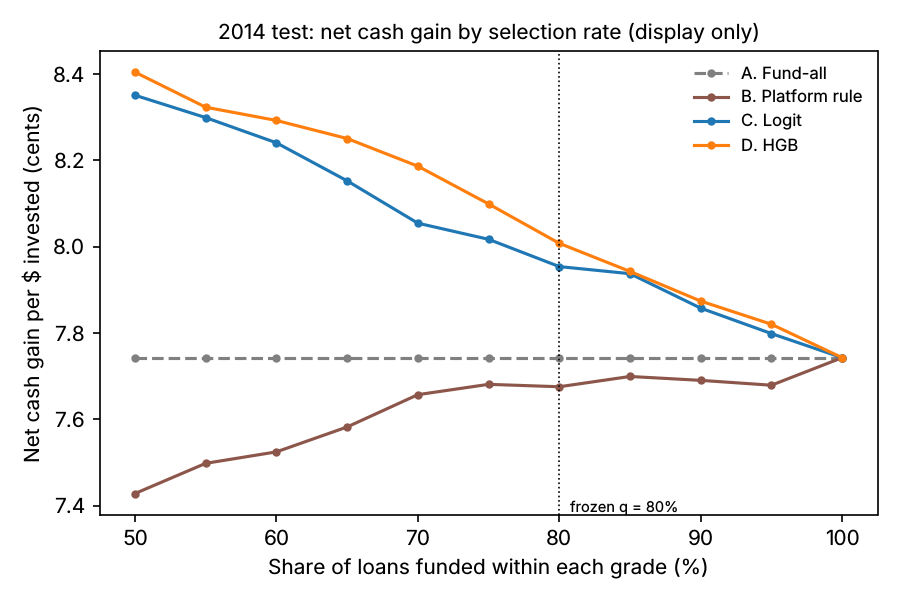
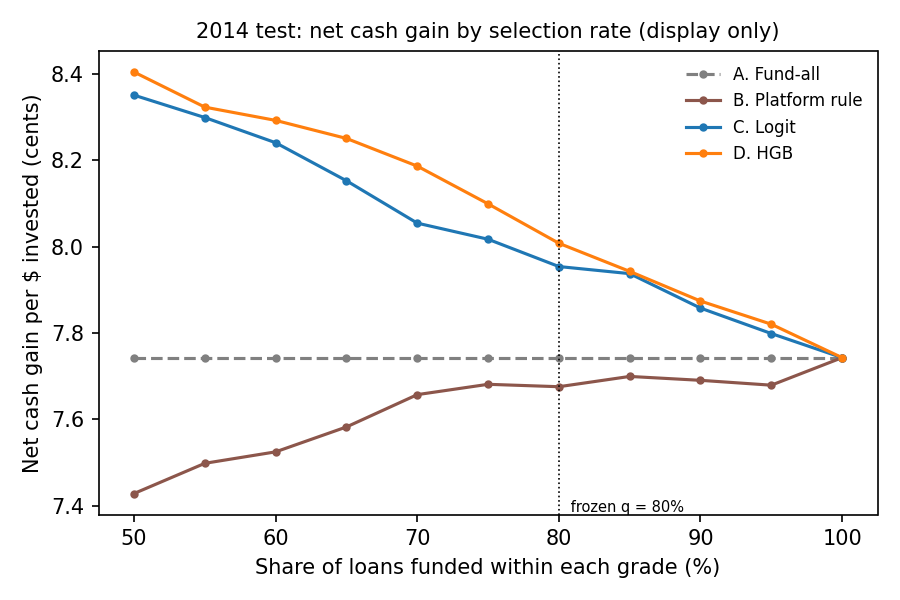
Step 15 fix: draw figures with matplotlib's built-in defaults on every computer
Colab rerun matched every table but not 9 PNGs: this machine's system-wide
matplotlibrc selected the Inter font, Colab uses DejaVu Sans. src/plotstyle.py
resets matplotlib to its built-in defaults; the 9 figures are redrawn (same
data, different font). The one-time step 9/11 reliability PNGs are left as
logged. No number changed.

Claude-Session: https://claude.ai/code/session_01W9jUEdu2WmqkS6TMUmf8Bj

diff --git a/src/reproduce_all.py b/src/reproduce_all.py
@@ -53,7 +53,11 @@ def check_committed_outputs():
     changed = [line[3:] for line in changed if line.strip()]
     changed = [c for c in changed if c not in VOLATILE and not c.startswith("outputs/reproduce")]
     if changed:
+        tables = [c for c in changed if not c.endswith(".png")]
         print("NOT REPRODUCED. These committed result files changed:\n  " + "\n  ".join(changed))
+        if not tables:
+            print("Only figures (.png) differ; every table and number is identical. This points to a "
+                  "drawing difference (fonts or matplotlib build), not a different result.")
         sys.exit(1)
     print("REPRODUCED: every committed table and figure is identical "
           "(only run times/timestamps in run-summary files may differ).")

diff --git a/src/plotstyle.py b/src/plotstyle.py
@@ -1,0 +1,15 @@
+"""
+plotstyle.py: identical figures on every computer (step 15 reproducibility fix).
+
+Matplotlib reads a machine-wide settings file (matplotlibrc) that can change
+the font. The machine that made the original figures had one that selects the
+"Inter" font; Colab has none and uses DejaVu Sans. Same numbers, different
+pixels. Importing this module resets matplotlib to its own built-in defaults,
+so every computer draws with DejaVu Sans, which ships inside matplotlib itself.
+It changes how figures look, never what they show.
+"""
+
+import matplotlib
+
+matplotlib.use("Agg")
+matplotlib.rcdefaults()   # ignore any machine-wide matplotlibrc

diff --git a/src/step6_baselines.py b/src/step6_baselines.py
@@ -36,6 +36,7 @@ from datetime import datetime, timezone
 
 import matplotlib
 matplotlib.use("Agg")
+from . import plotstyle  # noqa: F401  (same fonts on every computer)
 import matplotlib.pyplot as plt
 import numpy as np
 import pandas as pd

diff --git a/src/step7_histgb.py b/src/step7_histgb.py
@@ -31,6 +31,7 @@ from datetime import datetime, timezone
 
 import matplotlib
 matplotlib.use("Agg")
+from . import plotstyle  # noqa: F401  (same fonts on every computer)
 import matplotlib.pyplot as plt
 import numpy as np
 import pandas as pd

diff --git a/src/step9_test_2014.py b/src/step9_test_2014.py
@@ -36,6 +36,7 @@ from datetime import datetime, timezone
 
 import matplotlib
 matplotlib.use("Agg")
+from . import plotstyle  # noqa: F401  (same fonts on every computer)
 import matplotlib.pyplot as plt
 import numpy as np
 import pandas as pd

diff --git a/src/step10_financial_evaluation.py b/src/step10_financial_evaluation.py
@@ -25,6 +25,7 @@ import shutil
 
 import matplotlib
 matplotlib.use("Agg")
+from . import plotstyle  # noqa: F401  (same fonts on every computer)
 import matplotlib.pyplot as plt
 import numpy as np
 import pandas as pd

diff --git a/src/step12_interpretability.py b/src/step12_interpretability.py
@@ -27,6 +27,7 @@ import json
 
 import matplotlib
 matplotlib.use("Agg")
+from . import plotstyle  # noqa: F401  (same fonts on every computer)
 import matplotlib.pyplot as plt
 import numpy as np
 import pandas as pd

diff --git a/src/step13_final_outputs.py b/src/step13_final_outputs.py
@@ -25,6 +25,7 @@ import shutil
 
 import matplotlib
 matplotlib.use("Agg")
+from . import plotstyle  # noqa: F401  (same fonts on every computer)
 import matplotlib.pyplot as plt
 import pandas as pd
 
